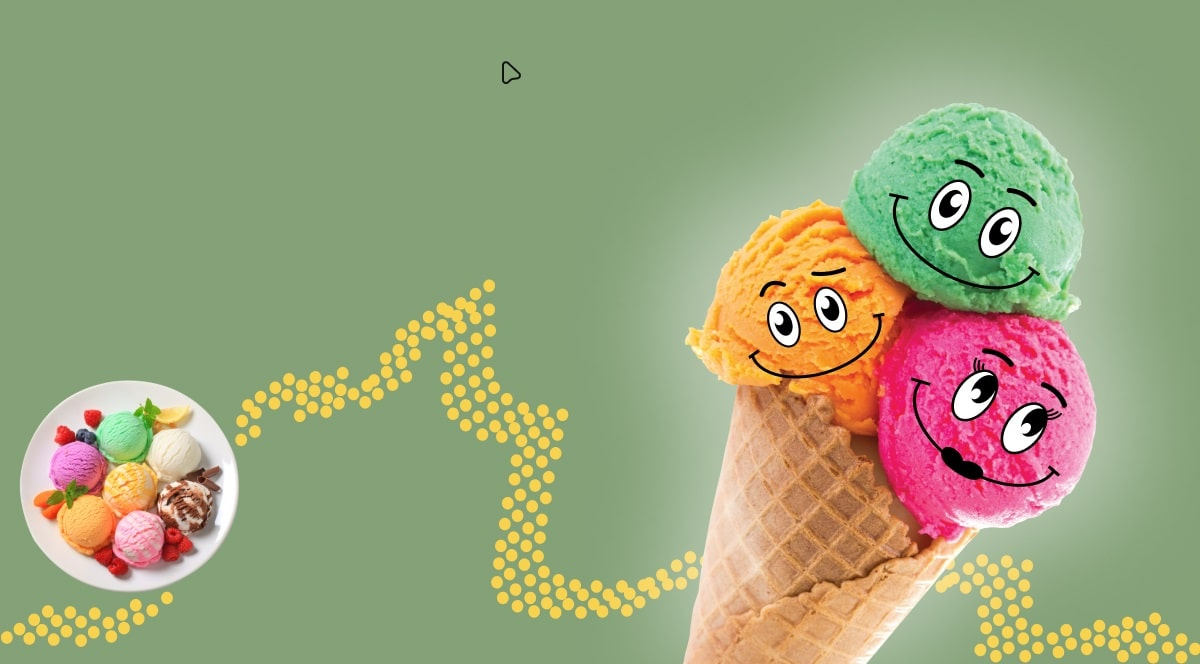
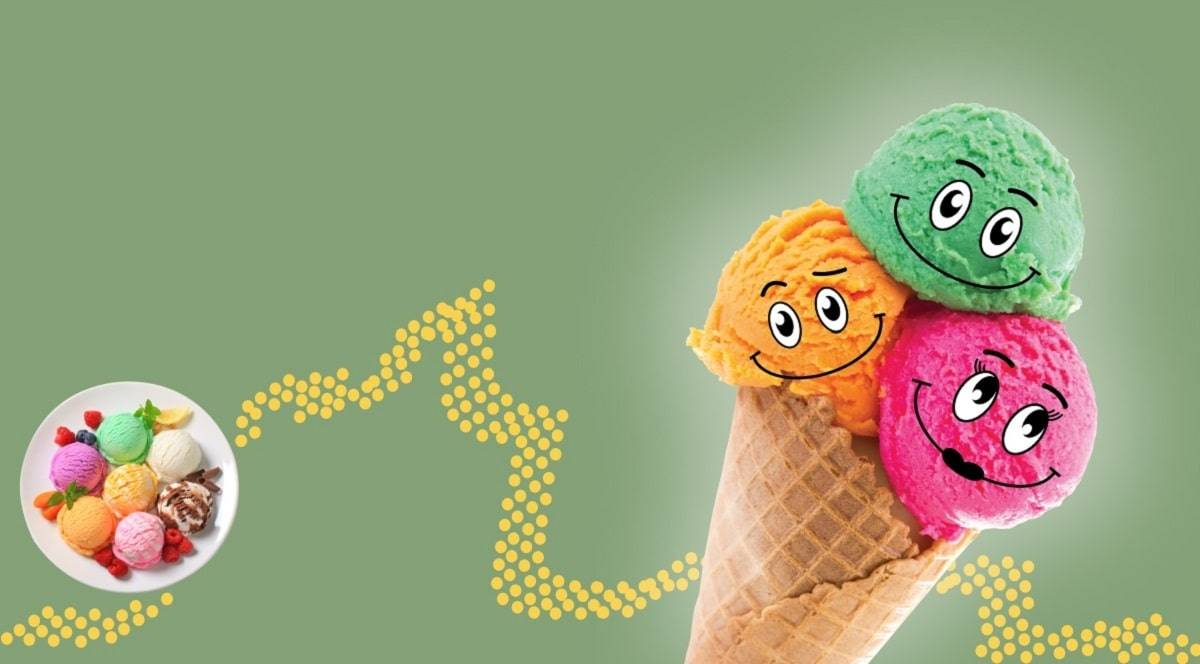
header - hero done

diff --git a/css/main.min.css b/css/main.min.css
@@ -1,1 +1,1 @@
-@import"https://fonts.googleapis.com/css2?family=Inter:wght@500&family=Montserrat:wght@400;500;600;700;800;900&family=Roboto:wght@700&family=Seymour+One&display=swap";/*! modern-normalize v0.6.0 | MIT License | https://github.com/sindresorhus/modern-normalize */*,*::before,*::after{-webkit-box-sizing:border-box;box-sizing:border-box}:root{-moz-tab-size:4;-o-tab-size:4;tab-size:4}html{line-height:1.15;-webkit-text-size-adjust:100%}body{margin:0}body{font-family:system-ui,-apple-system,"Segoe UI",Roboto,Helvetica,Arial,sans-serif,"Apple Color Emoji","Segoe UI Emoji"}hr{height:0}abbr[title]{-webkit-text-decoration:underline dotted;text-decoration:underline dotted}b,strong{font-weight:bolder}code,kbd,samp,pre{font-family:SFMono-Regular,Consolas,"Liberation Mono",Menlo,monospace;font-size:1em}small{font-size:80%}sub,sup{font-size:75%;line-height:0;position:relative;vertical-align:baseline}sub{bottom:-0.25em}sup{top:-0.5em}button,input,optgroup,select,textarea{font-family:inherit;font-size:100%;line-height:1.15;margin:0}button,select{text-transform:none}button,[type=button],[type=reset],[type=submit]{-webkit-appearance:button}button::-moz-focus-inner,[type=button]::-moz-focus-inner,[type=reset]::-moz-focus-inner,[type=submit]::-moz-focus-inner{border-style:none;padding:0}button:-moz-focusring,[type=button]:-moz-focusring,[type=reset]:-moz-focusring,[type=submit]:-moz-focusring{outline:1px dotted ButtonText}fieldset{padding:.35em .75em .625em}legend{padding:0}progress{vertical-align:baseline}[type=number]::-webkit-inner-spin-button,[type=number]::-webkit-outer-spin-button{height:auto}[type=search]{-webkit-appearance:textfield;outline-offset:-2px}[type=search]::-webkit-search-decoration{-webkit-appearance:none}::-webkit-file-upload-button{-webkit-appearance:button;font:inherit}summary{display:list-item}h1,h2,h3,h4,h5,h6,p,ul{margin:0;padding:0}button{border:none;background-color:rgba(0,0,0,0)}img{display:block}a{text-decoration:none;cursor:pointer}ul{list-style:none}:root{--primary-text-color: #fcfcfc;--secondary-text-color: #131313;--primary-background-color: #84a178;--secondary-background-color: #ffffff;--bc-list-1: #aec6a5;--bc-list-2: #efd478;--bc-list-3: #d6936d;--btn-color: #f8d24e;--btn-hover-color: #0a8817;--btn-disabled-color: #ababab;--white-color: #ffffff;--border-color: #e1e1e1;--roboto: "Roboto", sans-serif;--inter: "Inter", sans-serif;--seymoure: "Seymour One", sans-serif}.header,.container{margin-left:auto;margin-right:auto}body{font-family:"Montserrat",sans-serif;color:var(--primary-text-color)}@media screen and (max-width: 767px){.container{width:480px;padding-left:20px;padding-right:20px}}@media screen and (min-width: 768px){.container{width:768px;padding-left:32px;padding-right:32px}}@media screen and (min-width: 1200px){.container{width:1200px;padding-left:16px;padding-right:16px}}@media screen and (max-width: 767px){.section{padding-top:60px;padding-bottom:60px}}.button{padding-top:12px;padding-bottom:12px;padding-left:34px;padding-right:34px;border-radius:10px;cursor:pointer;outline:none;font-weight:600;font-size:14px;line-height:1.21;display:-webkit-box;display:-ms-flexbox;display:flex;-webkit-box-align:center;-ms-flex-align:center;align-items:center;text-align:center;color:var(--secondary-text-color);background:var(--btn-color)}.button::after{content:"";width:8px;height:8px;border-bottom:2px solid var(--secondary-text-color);border-right:2px solid var(--secondary-text-color);-webkit-transform:rotate(-45deg);transform:rotate(-45deg);margin-left:12px}.button:hover{background-color:var(--btn-hover-color)}.button:focus{background-color:var(--btn-hover-color);color:var(--primary-text-color)}.button:focus::after{border-color:var(--primary-text-color)}.button:disabled{background-color:var(--btn-disabled-color)}.transparent-btn{padding-top:5px;padding-bottom:5px;padding-left:11px;padding-right:11px;border:2px solid var(--btn-color);border-radius:8px;cursor:pointer;outline:none;font-weight:600;font-size:8px;line-height:1.25;color:var(--secondary-text-color);background:rgba(0,0,0,0)}@media screen and (min-width: 1200px){.transparent-btn{padding-top:12px;padding-bottom:12px;padding-left:32px;padding-right:32px;font-size:14px;line-height:1.29}}.transparent-btn:hover{border:2px solid var(--btn-hover-color)}.transparent-btn:focus{border:2px solid var(--btn-hover-color);color:var(--primary-text-color)}.transparent-btn:disabled{border:2px solid var(--btn-disabled-color)}.link{cursor:pointer;outline:none;font-weight:600;font-size:8px;line-height:1.25;-webkit-text-decoration-line:underline;text-decoration-line:underline;color:var(--btn-color)}@media screen and (min-width: 1200px){.link{font-size:14px;line-height:1.29}}.link:hover{color:var(--btn-hover-color)}.link:focus{color:var(--primary-text-color)}.link:disabled{color:var(--btn-disabled-color)}.hidden{position:absolute;width:1px;height:1px;margin:-1px;border:0;padding:0;clip:rect(0 0 0 0);overflow:hidden}.header{position:fixed;top:0;left:0;right:0;padding-top:20px;display:-webkit-box;display:-ms-flexbox;display:flex;-webkit-box-pack:justify;-ms-flex-pack:justify;justify-content:space-between;-webkit-box-align:center;-ms-flex-align:center;align-items:center}@media screen and (max-width: 767px){.header{padding-top:12px;width:480px}}@media screen and (min-width: 768px)and (max-width: 1199px){.header{padding-top:20px;-webkit-box-align:center;-ms-flex-align:center;align-items:center;width:768px}}@media screen and (min-width: 1200px){.header{padding-top:8px;width:1200px}}.header__site-logo{width:40px;height:37px}@media screen and (min-width: 768px){.header__site-logo{width:48px;height:44px}}@media screen and (min-width: 1200px){.header__site-logo{width:60px;height:65px}}@media screen and (min-width: 768px)and (max-width: 1199px){.header__burger-btn{margin-left:auto}}@media screen and (min-width: 1200px){.header__burger-btn{display:none}}@media screen and (max-width: 1199px){.header__navigate{display:none}}@media screen and (max-width: 767px){.header__buy-now-btn{display:none}}@media screen and (min-width: 768px)and (max-width: 1199px){.header__buy-now-btn{margin-left:32px}}@media screen and (min-width: 1200px){.nav-list{display:-webkit-box;display:-ms-flexbox;display:flex;gap:27px}}.nav-list__item{font-family:"Montserrat";font-style:normal;font-weight:700;font-size:16px;line-height:1.25;display:-webkit-box;display:-ms-flexbox;display:flex;-webkit-box-align:center;-ms-flex-align:center;align-items:center}.nav-list__link{color:var(--primary-text-color);border:none;outline:none}.nav-list__link:hover{color:var(--btn-color);text-decoration:underline}.nav-list__link:focus{color:var(--btn-hover-color);text-decoration:underline}.hero{background-color:var(--primary-background-color);background-repeat:no-repeat;background-size:cover;background-position:center bottom}@media screen and (max-width: 767px){.hero{padding-top:110px;padding-bottom:239px;background-image:url("../images/hero-bg-mob.jpg")}}@media screen and (max-width: 767px)and (min-device-pixel-ratio: 2),screen and (max-width: 767px)and (-webkit-min-device-pixel-ratio: 2),screen and (max-width: 767px)and (min-resolution: 192dpi),screen and (max-width: 767px)and (min-resolution: 2dppx){.hero{background-image:url("../images/hero-bg-mob@2x.jpg")}}@media screen and (min-width: 768px){.hero{padding-top:103px;padding-bottom:26px;background-image:url("../images/hero-bg-tab.jpg")}}@media screen and (min-width: 768px)and (min-device-pixel-ratio: 2),screen and (min-width: 768px)and (-webkit-min-device-pixel-ratio: 2),screen and (min-width: 768px)and (min-resolution: 192dpi),screen and (min-width: 768px)and (min-resolution: 2dppx){.hero{background-image:url("../images/hero-bg-tab@2x.jpg")}}@media screen and (min-width: 1200px){.hero{padding-top:118px;padding-bottom:111px;background-image:url("../images/hero-bg.jpg")}}@media screen and (min-width: 1200px)and (min-device-pixel-ratio: 2),screen and (min-width: 1200px)and (-webkit-min-device-pixel-ratio: 2),screen and (min-width: 1200px)and (min-resolution: 192dpi),screen and (min-width: 1200px)and (min-resolution: 2dppx){.hero{background-image:url("../images/hero-bg@2x.jpg")}}@media screen and (min-width: 768px){.hero__top{margin-bottom:56px;display:-webkit-box;display:-ms-flexbox;display:flex;-webkit-box-pack:justify;-ms-flex-pack:justify;justify-content:space-between}}@media screen and (min-width: 1200px){.hero__top{margin-bottom:111px}}@media screen and (max-width: 767px){.hero__benefits-wrap{display:none}}.hero__benefits{display:-webkit-box;display:-ms-flexbox;display:flex;-webkit-box-orient:vertical;-webkit-box-direction:normal;-ms-flex-direction:column;flex-direction:column;font-size:8px;line-height:1.25;text-align:right;color:var(--primary-text-color)}@media screen and (min-width: 1200px){.hero__benefits{font-size:14px;line-height:1.21}}.hero__benefits:first-child{margin-bottom:20px}@media screen and (min-width: 1200px){.hero__benefits:first-child{margin-bottom:16px}}.hero__benefits span{margin-bottom:4px;font-weight:900;font-size:28px;line-height:1.21;text-align:right;letter-spacing:.04em;text-transform:uppercase;color:var(--secondary-text-color)}@media screen and (min-width: 1200px){.hero__benefits span{font-size:46px;line-height:1.22}}.hero__title{font-family:var(--seymoure);text-transform:uppercase;color:var(--primary-text-color);font-weight:400}@media screen and (max-width: 767px){.hero__title{max-width:247px;margin-bottom:32px;font-size:26px;line-height:1.27;letter-spacing:.04em}}@media screen and (min-width: 768px){.hero__title{margin-bottom:20px;max-width:181px;font-size:18px;line-height:1.28}}@media screen and (min-width: 1200px){.hero__title{margin-bottom:28px;max-width:367px;font-size:38px;line-height:1.26}}.hero__title span{font-weight:400;font-size:34px;line-height:.97}@media screen and (min-width: 768px){.hero__title span{font-size:24px;line-height:.54}}@media screen and (min-width: 1200px){.hero__title span{font-size:38px;line-height:1.26}}.hero__btn{margin-right:8px}@media screen and (min-width: 1200px){.hero__btn{margin-right:34px}}.hero__bottom{padding-left:180px}@media screen and (max-width: 767px){.hero__bottom{display:none}}@media screen and (min-width: 1200px){.hero__bottom{padding-left:240px}}.hero__text{width:151px;margin-bottom:13px;font-size:12px;line-height:1.42;color:var(--primary-text-color)}@media screen and (min-width: 1200px){.hero__text{font-size:14px;line-height:1.43}}.hero__arrow{fill:currentColor}/*# sourceMappingURL=main.min.css.map */
+@import"https://fonts.googleapis.com/css2?family=Inter:wght@500&family=Montserrat:wght@400;500;600;700;800;900&family=Roboto:wght@700&family=Seymour+One&display=swap";/*! modern-normalize v0.6.0 | MIT License | https://github.com/sindresorhus/modern-normalize */*,*::before,*::after{-webkit-box-sizing:border-box;box-sizing:border-box}:root{-moz-tab-size:4;-o-tab-size:4;tab-size:4}html{line-height:1.15;-webkit-text-size-adjust:100%}body{margin:0}body{font-family:system-ui,-apple-system,"Segoe UI",Roboto,Helvetica,Arial,sans-serif,"Apple Color Emoji","Segoe UI Emoji"}hr{height:0}abbr[title]{-webkit-text-decoration:underline dotted;text-decoration:underline dotted}b,strong{font-weight:bolder}code,kbd,samp,pre{font-family:SFMono-Regular,Consolas,"Liberation Mono",Menlo,monospace;font-size:1em}small{font-size:80%}sub,sup{font-size:75%;line-height:0;position:relative;vertical-align:baseline}sub{bottom:-0.25em}sup{top:-0.5em}button,input,optgroup,select,textarea{font-family:inherit;font-size:100%;line-height:1.15;margin:0}button,select{text-transform:none}button,[type=button],[type=reset],[type=submit]{-webkit-appearance:button}button::-moz-focus-inner,[type=button]::-moz-focus-inner,[type=reset]::-moz-focus-inner,[type=submit]::-moz-focus-inner{border-style:none;padding:0}button:-moz-focusring,[type=button]:-moz-focusring,[type=reset]:-moz-focusring,[type=submit]:-moz-focusring{outline:1px dotted ButtonText}fieldset{padding:.35em .75em .625em}legend{padding:0}progress{vertical-align:baseline}[type=number]::-webkit-inner-spin-button,[type=number]::-webkit-outer-spin-button{height:auto}[type=search]{-webkit-appearance:textfield;outline-offset:-2px}[type=search]::-webkit-search-decoration{-webkit-appearance:none}::-webkit-file-upload-button{-webkit-appearance:button;font:inherit}summary{display:list-item}h1,h2,h3,h4,h5,h6,p,ul{margin:0;padding:0}button{border:none;background-color:rgba(0,0,0,0)}img{display:block}a{text-decoration:none;cursor:pointer}ul{list-style:none}:root{--primary-text-color: #fcfcfc;--secondary-text-color: #131313;--primary-background-color: #84a178;--secondary-background-color: #ffffff;--bc-list-1: #aec6a5;--bc-list-2: #efd478;--bc-list-3: #d6936d;--btn-color: #f8d24e;--btn-hover-color: #0a8817;--btn-disabled-color: #ababab;--white-color: #ffffff;--border-color: #e1e1e1;--roboto: "Roboto", sans-serif;--inter: "Inter", sans-serif;--seymoure: "Seymour One", sans-serif}.header,.container{margin-left:auto;margin-right:auto}body{font-family:"Montserrat",sans-serif;color:var(--primary-text-color)}@media screen and (max-width: 767px){.container{max-width:480px;padding-left:20px;padding-right:20px}}@media screen and (min-width: 768px){.container{width:768px;padding-left:32px;padding-right:32px}}@media screen and (min-width: 1200px){.container{width:1200px;padding-left:16px;padding-right:16px}}@media screen and (max-width: 767px){.section{padding-top:60px;padding-bottom:60px}}.button{padding-top:12px;padding-bottom:12px;padding-left:34px;padding-right:34px;border-radius:10px;cursor:pointer;outline:none;font-weight:600;font-size:14px;line-height:1.21;display:-webkit-box;display:-ms-flexbox;display:flex;-webkit-box-align:center;-ms-flex-align:center;align-items:center;text-align:center;color:var(--secondary-text-color);background:var(--btn-color)}.button::after{content:"";width:8px;height:8px;border-bottom:2px solid var(--secondary-text-color);border-right:2px solid var(--secondary-text-color);-webkit-transform:rotate(-45deg);transform:rotate(-45deg);margin-left:12px}.button:hover{background-color:var(--btn-hover-color)}.button:focus{background-color:var(--btn-hover-color);color:var(--primary-text-color)}.button:focus::after{border-color:var(--primary-text-color)}.button:disabled{background-color:var(--btn-disabled-color)}.transparent-btn{padding-top:5px;padding-bottom:5px;padding-left:11px;padding-right:11px;border:2px solid var(--btn-color);border-radius:8px;cursor:pointer;outline:none;font-weight:600;font-size:8px;line-height:1.25;color:var(--secondary-text-color);background:rgba(0,0,0,0)}@media screen and (min-width: 1200px){.transparent-btn{padding-top:12px;padding-bottom:12px;padding-left:32px;padding-right:32px;font-size:14px;line-height:1.29}}.transparent-btn:hover{border:2px solid var(--btn-hover-color)}.transparent-btn:focus{border:2px solid var(--btn-hover-color);color:var(--primary-text-color)}.transparent-btn:disabled{border:2px solid var(--btn-disabled-color)}.link{cursor:pointer;outline:none;font-weight:600;font-size:8px;line-height:1.25;-webkit-text-decoration-line:underline;text-decoration-line:underline;color:var(--btn-color)}@media screen and (min-width: 1200px){.link{font-size:14px;line-height:1.29}}.link:hover{color:var(--btn-hover-color)}.link:focus{color:var(--primary-text-color)}.link:disabled{color:var(--btn-disabled-color)}.hidden{position:absolute;width:1px;height:1px;margin:-1px;border:0;padding:0;clip:rect(0 0 0 0);overflow:hidden}.header{position:fixed;top:0;left:0;right:0;padding-top:20px;display:-webkit-box;display:-ms-flexbox;display:flex;-webkit-box-pack:justify;-ms-flex-pack:justify;justify-content:space-between;-webkit-box-align:center;-ms-flex-align:center;align-items:center}@media screen and (max-width: 767px){.header{padding-top:12px;width:480px}}@media screen and (min-width: 768px)and (max-width: 1199px){.header{padding-top:20px;-webkit-box-align:center;-ms-flex-align:center;align-items:center;width:768px}}@media screen and (min-width: 1200px){.header{padding-top:8px;width:1200px}}.header__site-logo{width:40px;height:37px}@media screen and (min-width: 768px){.header__site-logo{width:48px;height:44px}}@media screen and (min-width: 1200px){.header__site-logo{width:60px;height:65px}}@media screen and (min-width: 768px)and (max-width: 1199px){.header__burger-btn{margin-left:auto}}@media screen and (min-width: 1200px){.header__burger-btn{display:none}}@media screen and (max-width: 1199px){.header__navigate{display:none}}@media screen and (max-width: 767px){.header__buy-now-btn{display:none}}@media screen and (min-width: 768px)and (max-width: 1199px){.header__buy-now-btn{margin-left:32px}}@media screen and (min-width: 1200px){.nav-list{display:-webkit-box;display:-ms-flexbox;display:flex;gap:27px}}.nav-list__item{font-family:"Montserrat";font-style:normal;font-weight:700;font-size:16px;line-height:1.25;display:-webkit-box;display:-ms-flexbox;display:flex;-webkit-box-align:center;-ms-flex-align:center;align-items:center}.nav-list__link{color:var(--primary-text-color);border:none;outline:none}.nav-list__link:hover{color:var(--btn-color);text-decoration:underline}.nav-list__link:focus{color:var(--btn-hover-color);text-decoration:underline}.hero{background-color:var(--primary-background-color);background-repeat:no-repeat;background-size:contain;background-position:center bottom}@media screen and (max-width: 767px){.hero{padding-top:110px;padding-bottom:239px;background-image:url("../images/hero-bg-mob.jpg")}}@media screen and (max-width: 767px)and (min-device-pixel-ratio: 2),screen and (max-width: 767px)and (-webkit-min-device-pixel-ratio: 2),screen and (max-width: 767px)and (min-resolution: 192dpi),screen and (max-width: 767px)and (min-resolution: 2dppx){.hero{background-image:url("../images/hero-bg-mob@2x.jpg")}}@media screen and (min-width: 768px){.hero{padding-top:103px;padding-bottom:26px;background-image:url("../images/hero-bg-tab.jpg")}}@media screen and (min-width: 768px)and (min-device-pixel-ratio: 2),screen and (min-width: 768px)and (-webkit-min-device-pixel-ratio: 2),screen and (min-width: 768px)and (min-resolution: 192dpi),screen and (min-width: 768px)and (min-resolution: 2dppx){.hero{background-image:url("../images/hero-bg-tab@2x.jpg")}}@media screen and (min-width: 1200px){.hero{padding-top:118px;padding-bottom:108px;background-image:url("../images/hero-bg.jpg")}}@media screen and (min-width: 1200px)and (min-device-pixel-ratio: 2),screen and (min-width: 1200px)and (-webkit-min-device-pixel-ratio: 2),screen and (min-width: 1200px)and (min-resolution: 192dpi),screen and (min-width: 1200px)and (min-resolution: 2dppx){.hero{background-image:url("../images/hero-bg@2x.jpg")}}@media screen and (min-width: 768px){.hero__top{margin-bottom:56px;display:-webkit-box;display:-ms-flexbox;display:flex;-webkit-box-pack:justify;-ms-flex-pack:justify;justify-content:space-between}}@media screen and (min-width: 1200px){.hero__top{margin-bottom:109px}}@media screen and (max-width: 767px){.hero__benefits-wrap{display:none}}.hero__benefits{display:-webkit-box;display:-ms-flexbox;display:flex;-webkit-box-orient:vertical;-webkit-box-direction:normal;-ms-flex-direction:column;flex-direction:column;font-size:8px;line-height:1.25;text-align:right;color:var(--primary-text-color)}@media screen and (min-width: 1200px){.hero__benefits{font-size:14px;line-height:1.21}}.hero__benefits:first-child{margin-bottom:20px}@media screen and (min-width: 1200px){.hero__benefits:first-child{margin-bottom:16px}}.hero__benefits span{margin-bottom:4px;font-weight:900;font-size:28px;line-height:1.21;text-align:right;letter-spacing:.04em;text-transform:uppercase;color:var(--secondary-text-color)}@media screen and (min-width: 1200px){.hero__benefits span{font-size:46px;line-height:1.22}}.hero__title{font-family:var(--seymoure);text-transform:uppercase;color:var(--primary-text-color);font-weight:400}@media screen and (max-width: 767px){.hero__title{max-width:247px;margin-bottom:32px;font-size:26px;line-height:1.27;letter-spacing:.04em}}@media screen and (min-width: 768px){.hero__title{margin-bottom:20px;max-width:181px;font-size:18px;line-height:1.28}}@media screen and (min-width: 1200px){.hero__title{margin-bottom:28px;max-width:367px;font-size:38px;line-height:1.26}}.hero__title span{font-weight:400;font-size:34px;line-height:.97}@media screen and (min-width: 768px){.hero__title span{font-size:24px;line-height:.54}}@media screen and (min-width: 1200px){.hero__title span{font-size:38px;line-height:1.26}}.hero__btn{margin-right:8px}@media screen and (min-width: 1200px){.hero__btn{margin-right:34px}}.hero__bottom{padding-left:180px}@media screen and (max-width: 767px){.hero__bottom{display:none}}@media screen and (min-width: 1200px){.hero__bottom{padding-left:240px}}.hero__text{max-width:151px;margin-bottom:13px;font-size:12px;line-height:1.42;color:var(--primary-text-color)}@media screen and (min-width: 1200px){.hero__text{max-width:200px;font-size:14px;line-height:1.43}}.hero__arrow{fill:currentColor}/*# sourceMappingURL=main.min.css.map */

diff --git a/sass/layouts/_hero.scss b/sass/layouts/_hero.scss
@@ -1,179 +1,178 @@
-.hero{
-    background-color: var(--primary-background-color);
-    background-repeat: no-repeat;
-    background-size: cover;
-    background-position: center bottom;
+.hero {
+   background-color: var(--primary-background-color);
+   background-repeat: no-repeat;
+   background-size: contain;
+   background-position: center bottom;
 
-    @media screen and (max-width:767px){
-        padding-top: 110px;
-        padding-bottom: 239px;
-        background-image: url('../images/hero-bg-mob.jpg');
-        @include retina{
-            background-image: url('../images/hero-bg-mob@2x.jpg');
-        }
-    }
+   @media screen and (max-width: 767px) {
+      padding-top: 110px;
+      padding-bottom: 239px;
+      background-image: url("../images/hero-bg-mob.jpg");
+      @include retina {
+         background-image: url("../images/hero-bg-mob@2x.jpg");
+      }
+   }
 
-    @include tablet{
-        padding-top: 103px;
-        padding-bottom: 26px;
-        background-image: url('../images/hero-bg-tab.jpg');
-        @include retina {
-            background-image: url('../images/hero-bg-tab@2x.jpg');
-        }
-    }
+   @include tablet {
+      padding-top: 103px;
+      padding-bottom: 26px;
+      background-image: url("../images/hero-bg-tab.jpg");
+      @include retina {
+         background-image: url("../images/hero-bg-tab@2x.jpg");
+      }
+   }
 
-    @include desktop{
-        padding-top: 118px;
-        padding-bottom: 111px;
-        background-image: url('../images/hero-bg.jpg');
+   @include desktop {
+      padding-top: 118px;
+      padding-bottom: 108px;
+      background-image: url("../images/hero-bg.jpg");
 
-        @include retina {
-            background-image: url('../images/hero-bg@2x.jpg');
-        }
-    }
+      @include retina {
+         background-image: url("../images/hero-bg@2x.jpg");
+      }
+   }
 
-    &__top{
-        @include tablet{
-           margin-bottom: 56px;
-           display: flex;
-           justify-content: space-between;
-        }
-        
+   &__top {
+      @include tablet {
+         margin-bottom: 56px;
+         display: flex;
+         justify-content: space-between;
+      }
 
-        @include desktop{
-            margin-bottom: 111px;
-        }
-    }
+      @include desktop {
+         margin-bottom: 109px;
+      }
+   }
 
-    &__benefits-wrap{
-        @media screen and (max-width: 767px){
-            display: none;
-        }
-    }
+   &__benefits-wrap {
+      @media screen and (max-width: 767px) {
+         display: none;
+      }
+   }
 
-    &__benefits{
-        display: flex;
-        flex-direction: column;
+   &__benefits {
+      display: flex;
+      flex-direction: column;
 
-        font-size: 8px;
-        line-height: 1.25;
-        text-align: right;
-        
-        color: var(--primary-text-color);
+      font-size: 8px;
+      line-height: 1.25;
+      text-align: right;
 
-        @include desktop {
-            font-size: 14px;
-            line-height: 1.21;
-            }
-    }
+      color: var(--primary-text-color);
 
-    &__benefits:first-child{
-        margin-bottom: 20px;
+      @include desktop {
+         font-size: 14px;
+         line-height: 1.21;
+      }
+   }
 
-        @include desktop {
-            margin-bottom: 16px;
-            }
-    }
+   &__benefits:first-child {
+      margin-bottom: 20px;
 
-    &__benefits span{
-        margin-bottom: 4px;
+      @include desktop {
+         margin-bottom: 16px;
+      }
+   }
 
-        font-weight: 900;
-        font-size: 28px;
-        line-height: 1.21;
-        text-align: right;
-        letter-spacing: 0.04em;
-        text-transform: uppercase;
-        
-        color: var(--secondary-text-color);
+   &__benefits span {
+      margin-bottom: 4px;
 
-        @include desktop {
-            font-size: 46px;
-            line-height: 1.22;
-            }
-    }
+      font-weight: 900;
+      font-size: 28px;
+      line-height: 1.21;
+      text-align: right;
+      letter-spacing: 0.04em;
+      text-transform: uppercase;
 
-    &__title{
-        font-family: var(--seymoure);
-        text-transform: uppercase;
-        color: var(--primary-text-color);
-        font-weight: 400;
+      color: var(--secondary-text-color);
 
-        @media screen and (max-width: 767px){
-            max-width: 247px;
-            margin-bottom: 32px;
+      @include desktop {
+         font-size: 46px;
+         line-height: 1.22;
+      }
+   }
 
-            font-size: 26px;
-            line-height: 1.27;
-            letter-spacing: 0.04em;
-        }
+   &__title {
+      font-family: var(--seymoure);
+      text-transform: uppercase;
+      color: var(--primary-text-color);
+      font-weight: 400;
 
-        @include tablet{
-            margin-bottom: 20px;
-            max-width: 181px;
-            font-size: 18px;
-            line-height: 1.28;
-        }
+      @media screen and (max-width: 767px) {
+         max-width: 247px;
+         margin-bottom: 32px;
 
-        @include desktop {
-           margin-bottom: 28px;
-           max-width: 367px;
-           font-size: 38px;
-           line-height: 1.26;
-        }
+         font-size: 26px;
+         line-height: 1.27;
+         letter-spacing: 0.04em;
+      }
 
-        & span {
-            font-weight: 400;
-            font-size: 34px;
-            line-height: 0.97;
+      @include tablet {
+         margin-bottom: 20px;
+         max-width: 181px;
+         font-size: 18px;
+         line-height: 1.28;
+      }
 
-            @include tablet {
-                font-size: 24px;
-                line-height: 0.54;
-            }
+      @include desktop {
+         margin-bottom: 28px;
+         max-width: 367px;
+         font-size: 38px;
+         line-height: 1.26;
+      }
 
-            @include desktop {
-                font-size: 38px;
-                line-height: 1.26;
-            }
-        }
-    }
+      & span {
+         font-weight: 400;
+         font-size: 34px;
+         line-height: 0.97;
 
-&__btn{
-    margin-right: 8px;
+         @include tablet {
+            font-size: 24px;
+            line-height: 0.54;
+         }
 
-    @include desktop {
-       margin-right: 34px;
-        }
-}
+         @include desktop {
+            font-size: 38px;
+            line-height: 1.26;
+         }
+      }
+   }
 
-&__bottom{
-    @media screen and (max-width: 767px) {
-       display: none;
-    }
-    padding-left: 180px;
+   &__btn {
+      margin-right: 8px;
 
-    @include desktop {
-        padding-left: 240px;
-    }
-}
+      @include desktop {
+         margin-right: 34px;
+      }
+   }
 
-&__text{
-    width: 151px;
-    margin-bottom: 13px;
-    font-size: 12px;
-    line-height: 1.42;
-    
-    color: var(--primary-text-color);
+   &__bottom {
+      @media screen and (max-width: 767px) {
+         display: none;
+      }
+      padding-left: 180px;
 
-    @include desktop {
-        font-size: 14px;
-        line-height: 1.43;
-    }
-    
-}
+      @include desktop {
+         padding-left: 240px;
+      }
+   }
 
-&__arrow{
-    fill: currentColor;
-}
+   &__text {
+      max-width: 151px;
+      margin-bottom: 13px;
+      font-size: 12px;
+      line-height: 1.42;
+
+      color: var(--primary-text-color);
+
+      @include desktop {
+         max-width: 200px;
+         font-size: 14px;
+         line-height: 1.43;
+      }
+   }
+
+   &__arrow {
+      fill: currentColor;
+   }
 }

diff --git a/css/main.css b/css/main.css
@@ -303,7 +303,7 @@ body {
 
 @media screen and (max-width: 767px) {
   .container {
-    width: 480px;
+    max-width: 480px;
     padding-left: 20px;
     padding-right: 20px;
   }
@@ -564,7 +564,7 @@ body {
 .hero {
   background-color: var(--primary-background-color);
   background-repeat: no-repeat;
-  background-size: cover;
+  background-size: contain;
   background-position: center bottom;
 }
 @media screen and (max-width: 767px) {
@@ -594,7 +594,7 @@ body {
 @media screen and (min-width: 1200px) {
   .hero {
     padding-top: 118px;
-    padding-bottom: 111px;
+    padding-bottom: 108px;
     background-image: url("../images/hero-bg.jpg");
   }
 }
@@ -616,7 +616,7 @@ body {
 }
 @media screen and (min-width: 1200px) {
   .hero__top {
-    margin-bottom: 111px;
+    margin-bottom: 109px;
   }
 }
 @media screen and (max-width: 767px) {
@@ -737,7 +737,7 @@ body {
   }
 }
 .hero__text {
-  width: 151px;
+  max-width: 151px;
   margin-bottom: 13px;
   font-size: 12px;
   line-height: 1.42;
@@ -745,6 +745,7 @@ body {
 }
 @media screen and (min-width: 1200px) {
   .hero__text {
+    max-width: 200px;
     font-size: 14px;
     line-height: 1.43;
   }

diff --git a/sass/components/_container.scss b/sass/components/_container.scss
@@ -2,7 +2,7 @@
    @extend %margin-auto;
 
    @media screen and (max-width: 767px) {
-      width: 480px;
+      max-width: 480px;
       padding-left: 20px;
       padding-right: 20px;
    }
